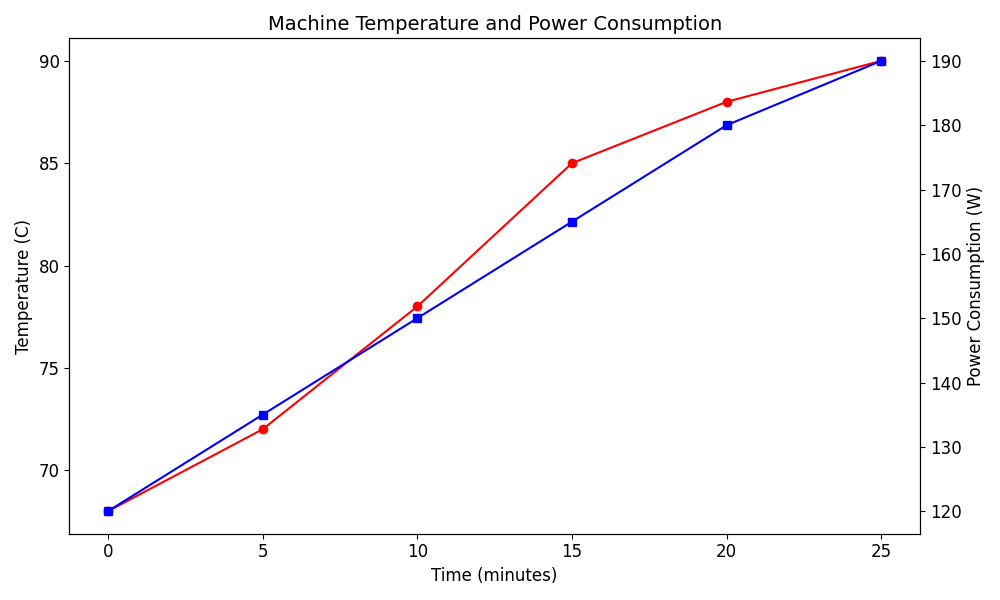
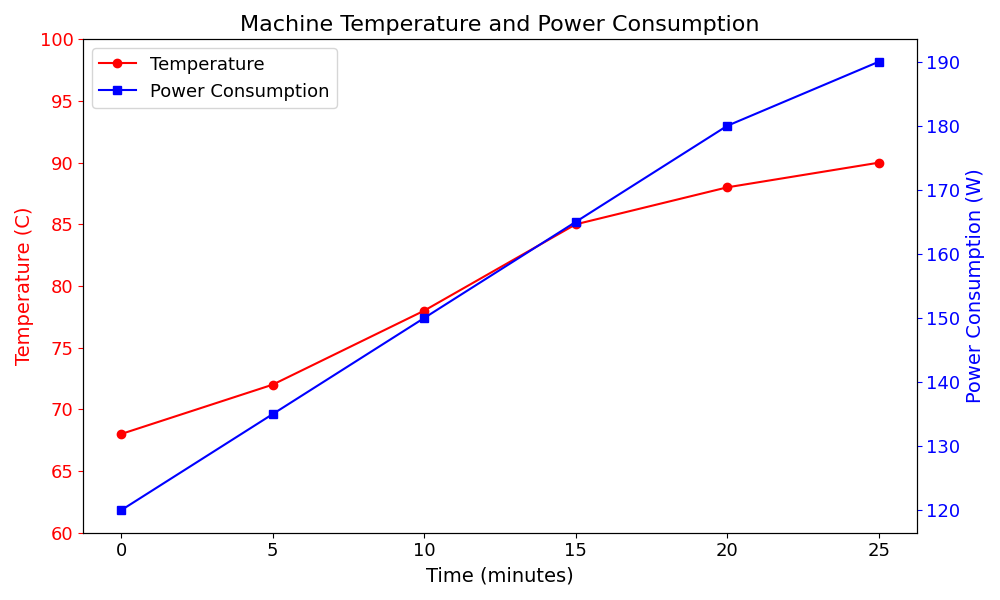
Recommitting Py4 ind_1 & materials + file structure change

diff --git a/source/Part_04_Python/M4/tasks/ind_1/a/test.py b/source/Part_04_Python/M4/tasks/ind_1/a/test.py
@@ -12,12 +12,16 @@ fig, ax1 = plt.subplots(figsize=(10, 6))
 # Plot temperature data as a red line plot with circle data markers
 ax1.plot(time, temperature, marker='o', color='red')
 
-# Label first y-axis
-ax1.set_xlabel("Time (minutes)", fontsize=12)
-ax1.set_ylabel("Temperature (C)", fontsize=12)
+# Label first data series axes and add color to match the data series
+ax1.set_ylabel("Temperature (C)", fontsize=14, color='red')
+ax1.set_xlabel("Time (minutes)", fontsize=14)
 
-# Increase size of axis tick labels
-ax1.tick_params(axis="both", labelsize=12)
+# Y-axis ticks red, X-axis ticks black — must set separately
+ax1.tick_params(axis="y", labelsize=13, colors='red')
+ax1.tick_params(axis="x", labelsize=13, colors='black')
+
+# Set y-axis limits ('Temperature (C)')
+ax1.set_ylim(60, 100)
 
 # Create second y-axis
 ax2 = ax1.twinx()
@@ -25,14 +29,17 @@ ax2 = ax1.twinx()
 # Plot power data as a blue line plot with data markers
 ax2.plot(time, power, marker='s', color='blue')
 
-# Label second y-axis
-ax2.set_ylabel("Power Consumption (W)", fontsize=12)
+# Label second y-axis and add color to match the data series
+ax2.set_ylabel("Power Consumption (W)", fontsize=14, color='blue')
 
-# Increase size of axis tick labels
-ax2.tick_params(axis="both", labelsize=12)
+# Y-axis ticks blue — no need to touch x-axis on ax2 (it's shared with ax1)
+ax2.tick_params(axis="y", labelsize=13, colors='blue')
 
 # Add title
-plt.title("Machine Temperature and Power Consumption", fontsize=14)
+plt.title("Machine Temperature and Power Consumption", fontsize=16)
+
+# Insert legend for both data series in the upper left corner of the plot
+plt.legend([ax1.lines[0], ax2.lines[0]], ["Temperature", "Power Consumption"], loc="upper left", fontsize=13)
 
 plt.tight_layout()
 plt.show()

diff --git a/source/Part_04_Python/M4/1.1_materials.md b/source/Part_04_Python/M4/1.1_materials.md
@@ -1203,9 +1203,6 @@ plt.ylabel("Frequency", fontsize=12)
 plt.title("Distribution of Exam Scores", fontsize=14)
 plt.tick_params(axis='both', labelsize=12)
 
-# Apply tight layout to prevent label clipping
-plt.tight_layout()
-
 plt.tight_layout()
 plt.show()
 ```
@@ -1241,22 +1238,21 @@ import matplotlib.pyplot as plt
 time = [0, 1, 2, 3, 4]
 temperature = [22, 24, 27, 26, 25]
 
-# Create a balck line plot with data point markers
+# Create a black line plot with data point markers
 plt.plot(time, temperature, marker="o", color="black")
 
 # Add labels and title
 plt.xlabel("Time (hours)", fontsize=12)
 plt.ylabel("Temperature (C)", fontsize=12)
 plt.title("Temperature vs. Time", fontsize=14)
-# adjust axis tick label size
+
+# Adjust axis tick label size
 plt.tick_params(axis="both", labelsize=12)
 
 # Add a grid
 plt.grid()
 
 plt.tight_layout()
-
-# Display the graph
 plt.show()
 ```
 
@@ -1266,7 +1262,9 @@ plt.show()
 
 ### Plotting Multiple Data Sets
 
-Multiple datasets can be displayed on the same graph. Because there are no colors specified for each line plot, Python uses the default Matplotlib colors.
+Multiple datasets can be displayed on the same graph. Because there are no colors specified for each line plot, Python uses the default Matplotlib colors. This example also demonstrates how to adjust **figure size**.
+
+When plotting multiple datasets, remember to include a **legend** to identify each dataset. By default, Matplotlib places the legend in the upper-right corner of the figure, but different legend locations can be specified (see example below) to improve readability and avoid covering important data.
 
 ```python
 import matplotlib.pyplot as plt
@@ -1290,10 +1288,7 @@ plt.ylabel("Temperature (C)", fontsize=12)
 plt.title("Temperature Sensor Comparison", fontsize=14)
 plt.tick_params(axis="both", labelsize=12)
 
-# Display legend
-plt.legend()
-
-plt.tight_layout()
+plt.tight_layout(loc='upper left')
 plt.show()
 ```
 ![A line graph titled “Temperature Sensor Comparison” comparing temperature readings from two sensors over a 4-hour period. The x-axis is labeled “Time (hours)” and the y-axis is labeled “Temperature (C).” Sensor 1, shown with a blue line and circular markers, starts at 22°C at hour 0, rises to 24°C at hour 1, peaks at 27°C at hour 2, then decreases to 26°C at hour 3 and 25°C at hour 4. Sensor 2, shown with an orange line and circular markers, starts at 20°C at hour 0, increases gradually to 21°C at hour 1, 23°C at hour 2, and 24°C at hour 3, before dropping to 22°C at hour 4. A legend in the upper-right corner identifies the two sensor lines.](/Part_04_Python/M4/materials/temp_sensor_comparison_plot.png)
@@ -1321,12 +1316,16 @@ fig, ax1 = plt.subplots(figsize=(10, 6))
 # Plot temperature data as a red line plot with circle data markers
 ax1.plot(time, temperature, marker='o', color='red')
 
-# Label first y-axis
-ax1.set_xlabel("Time (minutes)", fontsize=12)
-ax1.set_ylabel("Temperature (C)", fontsize=12)
+# Label first data series axes and add color to match the data series
+ax1.set_ylabel("Temperature (C)", fontsize=14, color='red')
+ax1.set_xlabel("Time (minutes)", fontsize=14)
 
-# Increase size of axis tick labels
-ax1.tick_params(axis="both", labelsize=12)
+# Y-axis ticks red, X-axis ticks black — must set separately
+ax1.tick_params(axis="y", labelsize=13, colors='red')
+ax1.tick_params(axis="x", labelsize=13, colors='black')
+
+# Set y-axis limits ('Temperature (C)')
+ax1.set_ylim(60, 100)
 
 # Create second y-axis
 ax2 = ax1.twinx()
@@ -1334,14 +1333,17 @@ ax2 = ax1.twinx()
 # Plot power data as a blue line plot with data markers
 ax2.plot(time, power, marker='s', color='blue')
 
-# Label second y-axis
-ax2.set_ylabel("Power Consumption (W)", fontsize=12)
+# Label second y-axis and add color to match the data series
+ax2.set_ylabel("Power Consumption (W)", fontsize=14, color='blue')
 
-# Increase size of axis tick labels
-ax2.tick_params(axis="both", labelsize=12)
+# Y-axis ticks blue — no need to touch x-axis on ax2 (it's shared with ax1)
+ax2.tick_params(axis="y", labelsize=13, colors='blue')
 
 # Add title
-plt.title("Machine Temperature and Power Consumption", fontsize=14)
+plt.title("Machine Temperature and Power Consumption", fontsize=16)
+
+# Insert legend for both data series in the upper left corner of the plot
+plt.legend([ax1.lines[0], ax2.lines[0]], ["Temperature", "Power Consumption"], loc="upper left", fontsize=13)
 
 plt.tight_layout()
 plt.show()
